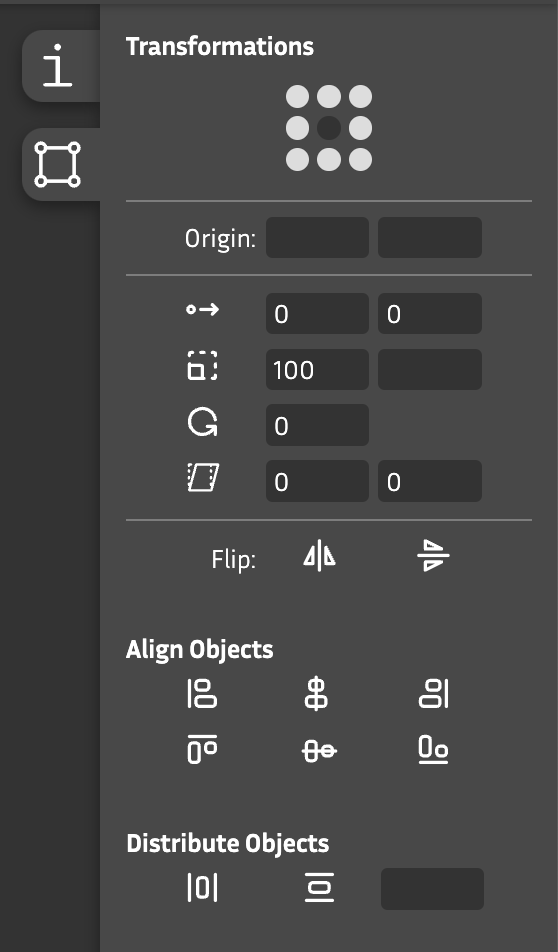
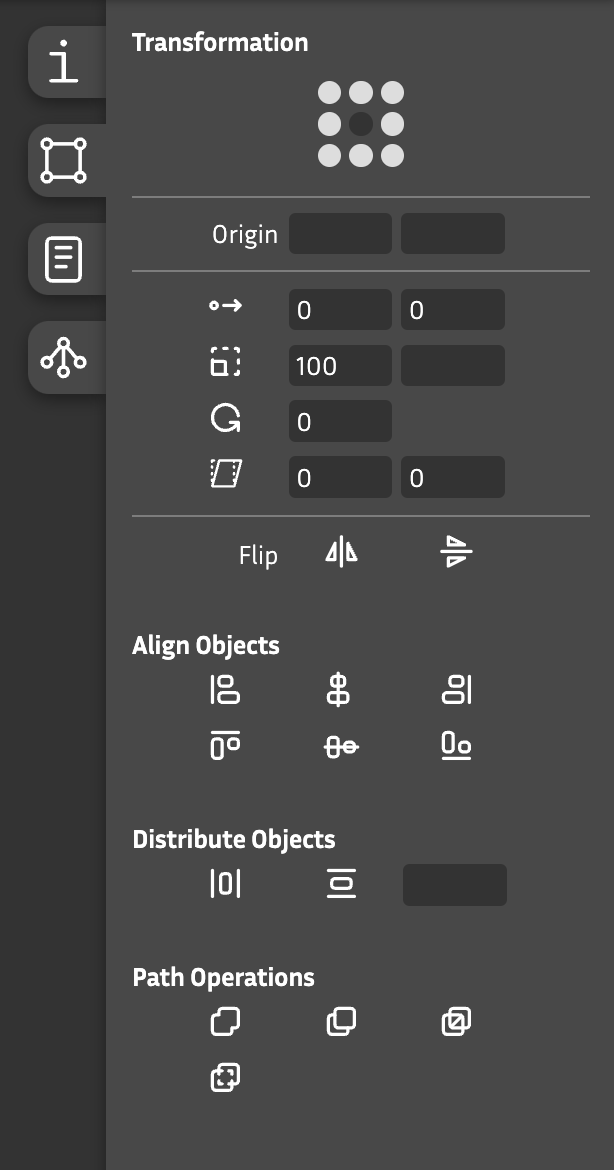
Add path operation infos

diff --git a/_reference/panels/transformations.md b/_reference/panels/transformations.md
@@ -87,6 +87,24 @@ Distribute a selection of points, contours and/or components.
 Distance of distribution
 : The distance will be calcutated, if not set. Otherwise: specify the distance in **units**. 
 
+- - -
+
+##### Path Operations
+
+Keep in mind that path operations work with two groups: the selected and the unselected contours.
+
+<img src='{{ site.url }}/images/icons/layers-union.svg' />
+: Remove Overlaps -> removes overlaps of selection only.
+
+<img src='{{ site.url }}/images/icons/layers-subtract.svg' />
+: Subtract contours -> subtracts the selected contours from the unselected contours.
+
+<img src='{{ site.url }}/images/icons/layers-intersect-2.svg' />
+: Intersect contours
+
+<img src='{{ site.url }}/images/icons/layers-difference.svg' />
+: Exclude contours
+
 </div>
 </div>
 
@@ -96,4 +114,9 @@ Distance of distribution
 *Align and distribute objects* introduction
 -------
 <video src="{{ site.url }}/videos/align-distribute-objects.mp4" controls="controls" style="width: 100%; max-width: 600px">
+</video>
+
+*Path operations* multi source editing
+-------
+<video src="{{ site.url }}/videos/path-operations.mp4" controls="controls" style="width: 100%; max-width: 600px">
 </video>
